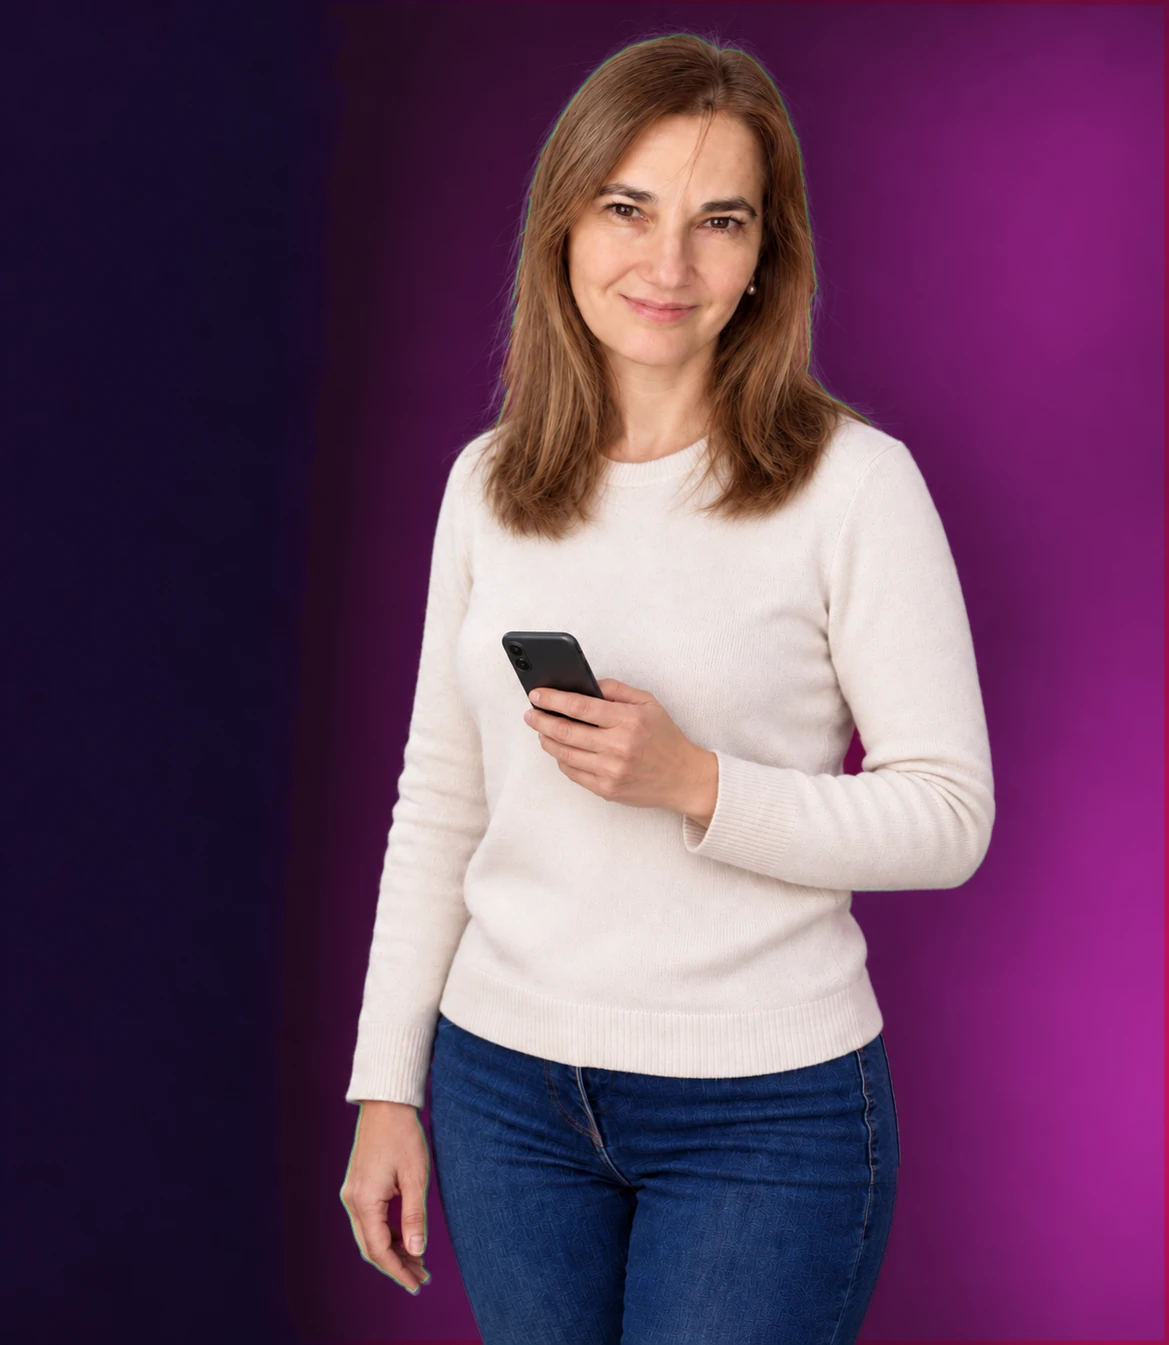
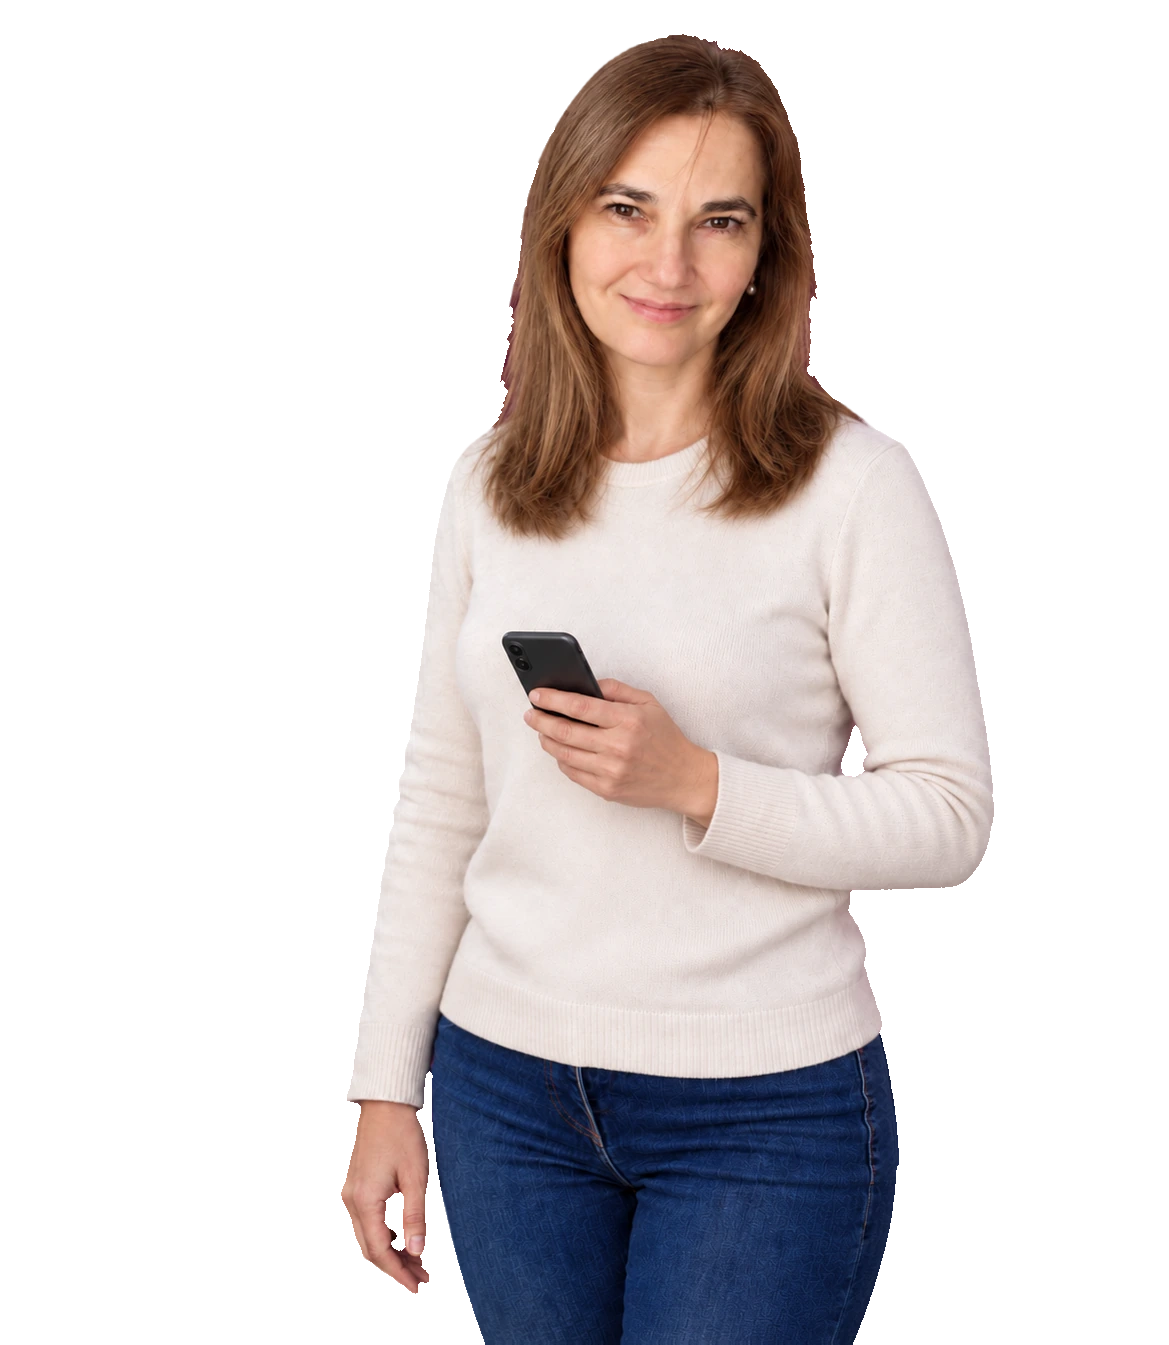
Обновление 02.10 22:30 МСК

diff --git a/index.html b/index.html
@@ -194,20 +194,42 @@
               mask-image: linear-gradient(90deg, transparent 0, #000 22%), linear-gradient(180deg, #000 72%, transparent 100%);
       -webkit-mask-composite: source-in; mask-composite: intersect; }
   }
-  /* 02.10.2026: кадр на готовом фиолетовом фоне (из Загрузок, по слову человека): у кадра свой фон, поэтому левый край плавно растворяется в тёмный цвет страницы (#170a29 — цвет левого края кадра) */
-  #экран-1 { background: #170a29 !important; }
+  /* 02.10.2026: кадр из Загрузок, вырезан по контуру (прозрачный фон) и поставлен на градиент страницы; фигура ближе к тексту (по слову человека) */
+  #экран-1 { background:
+      radial-gradient(52% 78% at 72% 46%, color-mix(in srgb, var(--цвет-акцент) 28%, transparent), transparent 72%),
+      linear-gradient(115deg, var(--цвет-тёмный-фон) 0%, var(--цвет-тёмный-фон-3) 36%, var(--цвет-тёмный-фон-2) 66%, color-mix(in srgb, var(--цвет-тёмный-фон-2) 80%, var(--цвет-акцент-тёмный)) 100%) !important; }
   #экран-1 .первый-экран__картинка { background: none !important; border-radius: 0 !important; overflow: visible !important; }
-  @media (min-width: 900px) {
-    #экран-1 { position: relative; overflow: hidden; }
-    #экран-1 .первый-экран__картинка { position: absolute !important; right: 0 !important; top: 0 !important; bottom: auto !important; left: auto !important; height: 100% !important; width: auto !important; aspect-ratio: 1169 / 1345 !important; margin: 0 !important; padding: 0 !important; }
-    #экран-1 .первый-экран__картинка.картинка--край img { position: absolute !important; inset: 0 !important; width: 100% !important; height: 100% !important; object-fit: cover !important; object-position: 50% 0 !important;
-      -webkit-mask-image: linear-gradient(90deg, transparent 0, #000 26%) !important; mask-image: linear-gradient(90deg, transparent 0, #000 26%) !important; }
+  @media (min-width: 1200px) {
+    #экран-1 { position: relative; overflow: hidden; --ML: max(2rem, 9vw); }
+    #экран-1 .первый-экран__картинка { position: absolute !important; top: auto !important; bottom: 0 !important; left: auto !important; right: max(1rem, 11vw) !important; height: calc(100% - 5rem) !important; width: auto !important; aspect-ratio: 1169 / 1345 !important; margin: 0 !important; padding: 0 !important; }
+    #экран-1 .первый-экран__картинка.картинка--край img { position: absolute !important; inset: 0 !important; width: 100% !important; height: 100% !important; object-fit: cover !important; object-position: 50% 0 !important; -webkit-mask-image: none !important; mask-image: none !important; }
   }
-  @media (max-width: 899px) {
-    #экран-1 { background: linear-gradient(180deg, #170a29 0%, #2a0f3a 60%, #4a1844 100%) !important; }
-    #экран-1 .первый-экран__картинка { width: 100vw !important; max-width: none !important; height: 118vw !important; max-height: 640px !important; margin: 0 calc(50% - 50vw) -5rem !important; padding: 0 !important; }
+  @media (min-width: 900px) and (max-width: 1199px) {
+    #экран-1 { position: relative; overflow: hidden; }
+    #экран-1 .первый-экран__картинка { position: absolute !important; right: 2vw !important; bottom: 0 !important; top: auto !important; left: auto !important; width: min(54vw, 600px) !important; height: auto !important; margin: 0 !important; padding: 0 !important; aspect-ratio: 1169 / 1345 !important; }
+    #экран-1 .первый-экран__картинка.картинка--край img { position: static !important; width: 100% !important; height: 100% !important; object-fit: contain !important; -webkit-mask-image: none !important; mask-image: none !important; }
+  }
+  /* планшет 521–899: компактный кадр по центру, текст ниже и не на лице */
+  @media (min-width: 521px) and (max-width: 899px) {
+    #экран-1 { background:
+        radial-gradient(60% 30% at 50% 24%, color-mix(in srgb, var(--цвет-акцент) 26%, transparent), transparent 72%),
+        linear-gradient(180deg, var(--цвет-тёмный-фон) 0%, var(--цвет-тёмный-фон-3) 45%, var(--цвет-тёмный-фон-2) 80%, color-mix(in srgb, var(--цвет-тёмный-фон-2) 80%, var(--цвет-акцент-тёмный)) 100%) !important; }
+    /* лицо ближе: фигура крупнее, по пояс, низ растворяется; текст начинается ниже лица и плеч */
+    #экран-1 .первый-экран__картинка { width: min(82vw, 600px) !important; max-width: none !important; height: auto !important; aspect-ratio: 1169 / 960 !important; margin: 0 auto -1.5rem !important; padding: 3.2rem 0 0 !important; box-sizing: content-box !important; }
     #экран-1 .первый-экран__картинка.картинка--край img { width: 100% !important; height: 100% !important; object-fit: cover !important; object-position: 50% 0 !important;
       -webkit-mask-image: linear-gradient(180deg, #000 64%, transparent 98%) !important; mask-image: linear-gradient(180deg, #000 64%, transparent 98%) !important; }
+    #экран-1 .первый-экран__текст { width: min(100%, 36rem); margin-inline: auto; }
+  }
+  @media (max-width: 520px) {
+    #экран-1 { background:
+        radial-gradient(70% 34% at 50% 26%, color-mix(in srgb, var(--цвет-акцент) 26%, transparent), transparent 72%),
+        linear-gradient(180deg, var(--цвет-тёмный-фон) 0%, var(--цвет-тёмный-фон-3) 45%, var(--цвет-тёмный-фон-2) 80%, color-mix(in srgb, var(--цвет-тёмный-фон-2) 80%, var(--цвет-акцент-тёмный)) 100%) !important; }
+    /* лицо крупнее: кадр во всю ширину с обрезкой по бокам, фигура по пояс; заголовок начинается с груди и ложится на затухание */
+    #экран-1 .первый-экран__картинка { width: 100vw !important; max-width: none !important; height: 138vw !important; max-height: 640px !important; margin: 0 calc(50% - 50vw) -54vw !important; padding: 3.2rem 0 0 !important; box-sizing: border-box !important; }
+    #экран-1 .первый-экран__картинка.картинка--край img { width: 100% !important; height: 100% !important; object-fit: cover !important; object-position: 50% 0 !important;
+      -webkit-mask-image: linear-gradient(180deg, #000 46%, rgba(0,0,0,.35) 70%, transparent 92%) !important; mask-image: linear-gradient(180deg, #000 46%, rgba(0,0,0,.35) 70%, transparent 92%) !important; }
+    #экран-1 .кикер, #экран-1 h1 { text-shadow: 0 2px 18px rgba(23, 18, 28, .8), 0 0 2px rgba(23, 18, 28, .4); }
+    #экран-1 .кикер { color: var(--цвет-тёплый-мягкий, #ffc9cd); width: fit-content; padding: .3rem .75rem .3rem .6rem; border-radius: 999px; background: color-mix(in srgb, var(--цвет-тёмный-фон) 82%, transparent); text-shadow: none; }
   }
   </style>
   <div class="блок__внутри">

diff --git a/style.css b/style.css
@@ -1692,6 +1692,7 @@ h2 .хвост-акцент { display: block; font-weight: 600; font-size: .6em;
 #экран-02.тёмный .письмо__строка { border-color: color-mix(in srgb, var(--текст-ключа, var(--цвет-тёмный-текст)) 22%, transparent); }
 
 /* экран 04 */
+#экран-04 { background: radial-gradient(60% 50% at 82% 12%, color-mix(in srgb, var(--цвет-акцент) 22%, transparent), transparent 70%), linear-gradient(160deg, var(--цвет-тёмный-фон) 0%, var(--цвет-тёмный-фон-3) 38%, var(--цвет-тёмный-фон-2) 72%, color-mix(in srgb, var(--цвет-тёмный-фон-2) 80%, var(--цвет-акцент-тёмный)) 100%) !important; }
 #экран-04 .кикер { width: fit-content; align-self: flex-start; justify-self: start; }
 #экран-04.тёмный .кикер { color: color-mix(in srgb, var(--цвет-тёплый) 78%, var(--цвет-тёмный-текст)); }
 #экран-04 .дорога { max-width: 56rem; margin-inline: auto; }
@@ -1799,6 +1800,7 @@ h2 .хвост-акцент { display: block; font-weight: 600; font-size: .6em;
 #экран-05.тёмный .обо-мне__цифра span { color: color-mix(in srgb, var(--текст-ключа, var(--цвет-тёмный-текст)) 75%, transparent); }
 
 /* экран 06 */
+#экран-06 { background: radial-gradient(60% 50% at 82% 12%, color-mix(in srgb, var(--цвет-акцент) 22%, transparent), transparent 70%), linear-gradient(200deg, var(--цвет-тёмный-фон) 0%, var(--цвет-тёмный-фон-3) 38%, var(--цвет-тёмный-фон-2) 72%, color-mix(in srgb, var(--цвет-тёмный-фон-2) 80%, var(--цвет-акцент-тёмный)) 100%) !important; }
 #экран-06.тёмный .кикер { color: color-mix(in srgb, var(--цвет-тёплый) 78%, var(--цвет-тёмный-текст)); }
 #экран-06.тёмный .кнопка--главная { outline: 2px solid color-mix(in srgb, var(--цвет-акцент-яркий) 70%, transparent); }
 #экран-06 .тарифы { display: grid; grid-template-columns: minmax(0, 1fr); gap: 1.25rem; margin-top: 2.5rem; align-items: stretch; }
@@ -1857,6 +1859,7 @@ h2 .хвост-акцент { display: block; font-weight: 600; font-size: .6em;
 #экран-07.тёмный .слово__источник { color: color-mix(in srgb, var(--текст-ключа, var(--цвет-тёмный-текст)) 70%, transparent); }
 
 /* экран 08 */
+#экран-08 { background: radial-gradient(60% 50% at 82% 12%, color-mix(in srgb, var(--цвет-акцент) 22%, transparent), transparent 70%), linear-gradient(135deg, var(--цвет-тёмный-фон) 0%, var(--цвет-тёмный-фон-3) 38%, var(--цвет-тёмный-фон-2) 72%, color-mix(in srgb, var(--цвет-тёмный-фон-2) 80%, var(--цвет-акцент-тёмный)) 100%) !important; }
 #экран-08.тёмный .кикер { color: color-mix(in srgb, var(--цвет-тёплый) 78%, var(--цвет-тёмный-текст)); }
 #экран-08.тёмный .кнопка--главная { outline: 2px solid color-mix(in srgb, var(--цвет-акцент-яркий) 70%, transparent); }
 #экран-08 .вопросник { display: grid; grid-template-columns: minmax(0, 1fr); gap: clamp(2rem, 5vw, 3.5rem); max-width: 64rem; margin-inline: auto; }
@@ -1921,6 +1924,7 @@ h2 .хвост-акцент { display: block; font-weight: 600; font-size: .6em;
 #экран-09.тёмный .конверт__действие { border-color: color-mix(in srgb, var(--текст-ключа, var(--цвет-тёмный-текст)) 22%, transparent); }
 
 /* экран 10 */
+#экран-10 { background: radial-gradient(60% 50% at 82% 12%, color-mix(in srgb, var(--цвет-акцент) 22%, transparent), transparent 70%), linear-gradient(170deg, var(--цвет-тёмный-фон) 0%, var(--цвет-тёмный-фон-3) 38%, var(--цвет-тёмный-фон-2) 72%, color-mix(in srgb, var(--цвет-тёмный-фон-2) 80%, var(--цвет-акцент-тёмный)) 100%) !important; }
 #экран-10 { padding-block: clamp(1.75rem, 4vw, 2.5rem); }
 #экран-10.светлый { background: var(--цвет-фон); color: var(--цвет-текст); }
 #экран-10.тёмный { background: var(--цвет-тёмный-фон); color: var(--цвет-тёмный-текст); }
